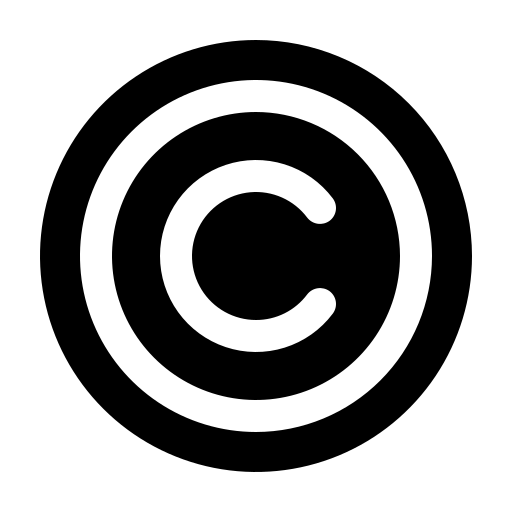
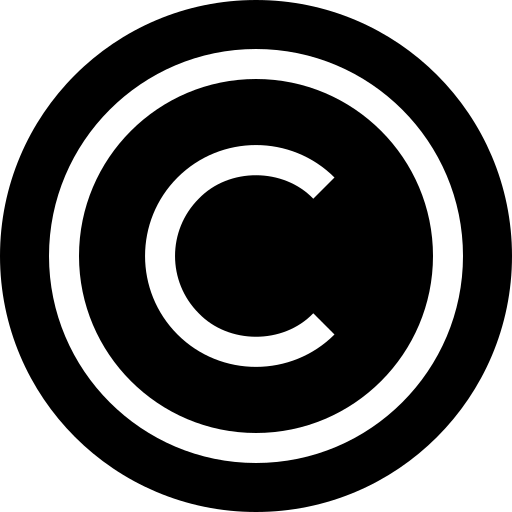
copyright img again  added

diff --git a/src/screens/Home/Home.tsx b/src/screens/Home/Home.tsx
@@ -220,7 +220,7 @@ export const Home = (): JSX.Element => {
                 <img
                   className="w-[18px] h-[18px]"
                   alt="Copyright icon"
-                  src="/vector.svg"
+                  src="/copyright.png"
                 />
                 <div className="absolute top-0 left-[3px] font-['Poppins',Helvetica] font-light text-white text-lg">
                   c
